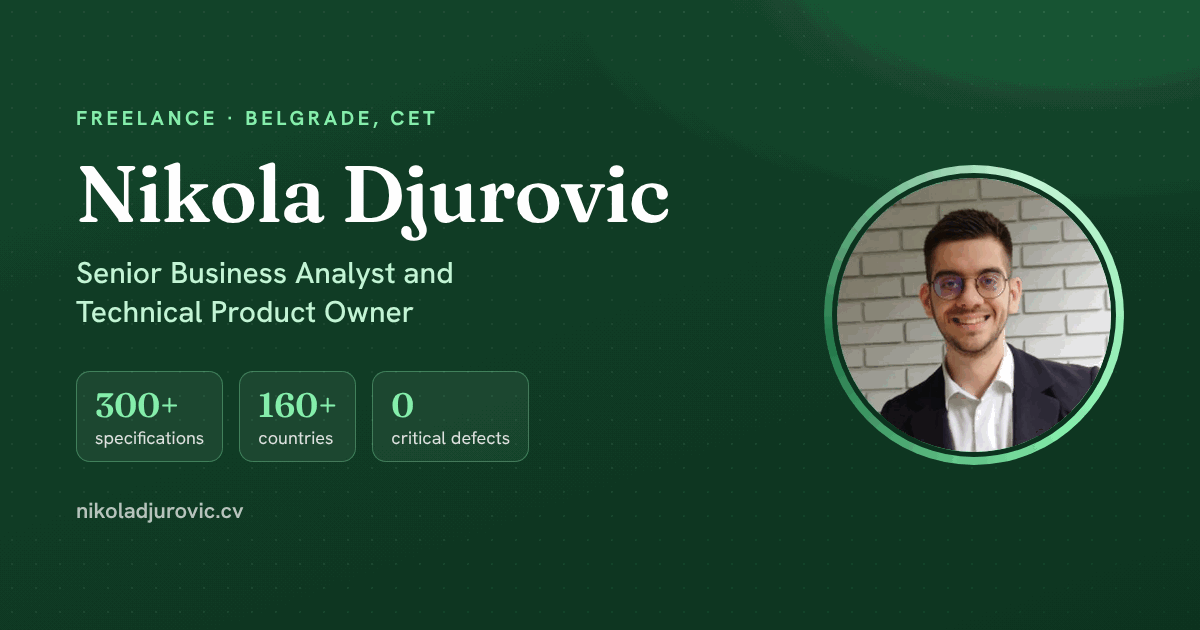
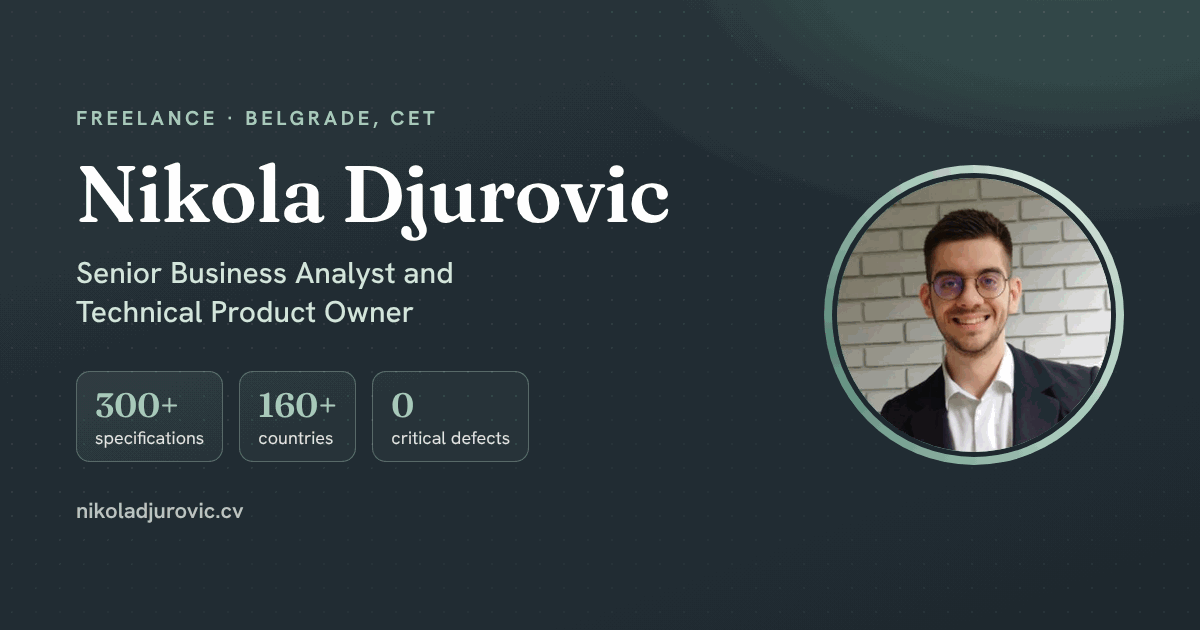
Switch to the Slate and Sage palette
Colours moved into CSS variables; icons, share images and theme colour regenerated.

Claude-Session: https://claude.ai/code/session_01DfTwYVFf6DwHNFPqiJmjwj

diff --git a/assets/css/site.css b/assets/css/site.css
@@ -6,18 +6,23 @@
 @font-face{font-family:"Hanken Grotesk";font-style:normal;font-weight:100 900;font-display:swap;src:url(../fonts/hanken-grotesk-latin-ext-wght-normal.woff2) format("woff2");unicode-range:U+0100-02BA,U+02BD-02C5,U+02C7-02CC,U+02CE-02D7,U+02DD-02FF,U+0304,U+0308,U+0329,U+1D00-1DBF,U+1E00-1E9F,U+1EF2-1EFF,U+2020,U+20A0-20AB,U+20AD-20C0,U+2113,U+2C60-2C7F,U+A720-A7FF}
 
 :root{
-  --forest:#13442a;
-  --forest-2:#0d321f;
-  --moss:#23794a;
-  --moss-ink:#1d6a40;
-  --mint:#86efac;
-  --mint-soft:#c4f5d6;
-  --paper:#f6f4ec;
-  --paper-2:#ece8db;
-  --card:#fffdf8;
-  --ink:#16211b;
-  --ink-soft:#454f48;
-  --line:#dcd7c7;
+  --forest:#27333a;
+  --accent-rgb:169 203 187;
+  --moss-rgb:91 138 122;
+  --deep-rgb:30 40 46;
+  --stats-bg:#222d33;
+  --tint:#e3eee8;
+  --forest-2:#1e282e;
+  --moss:#5b8a7a;
+  --moss-ink:#3b6a5b;
+  --mint:#a9cbbb;
+  --mint-soft:#d4e6dc;
+  --paper:#f4f4f1;
+  --paper-2:#e9e9e4;
+  --card:#fbfbf9;
+  --ink:#1e2429;
+  --ink-soft:#4e5760;
+  --line:#dfe0da;
   --focus:#f2b84b;
   --maxw:1140px;
   --gutter:clamp(16px,5vw,64px);
@@ -32,7 +37,7 @@
 *{margin:0;padding:0}
 html{-webkit-text-size-adjust:100%;text-size-adjust:100%;scroll-behavior:smooth;scroll-padding-top:84px}
 @media (pointer:fine){html{overscroll-behavior:none}}
-body{font-family:var(--sans);font-size:1.0625rem;background:var(--paper);color:var(--ink);line-height:1.6;-webkit-font-smoothing:antialiased;overflow-x:hidden;touch-action:manipulation;-webkit-tap-highlight-color:rgba(35,121,74,.18)}
+body{font-family:var(--sans);font-size:1.0625rem;background:var(--paper);color:var(--ink);line-height:1.6;-webkit-font-smoothing:antialiased;overflow-x:hidden;touch-action:manipulation;-webkit-tap-highlight-color:rgb(var(--moss-rgb) / .18)}
 img,svg{display:block;max-width:100%;height:auto}
 a{color:inherit}
 ul,ol{list-style:none}
@@ -48,9 +53,9 @@ p{text-wrap:pretty}
 .skip-link:focus{top:12px}
 
 /* ---------- header ---------- */
-.site-header{position:fixed;inset:0 0 auto 0;z-index:100;padding:14px var(--gutter);padding-top:max(14px,env(safe-area-inset-top));background:rgba(13,50,31,0);transition:background-color .3s ease,box-shadow .3s ease}
-.site-header.is-solid,.site-header.is-open{background:rgba(13,50,31,.97);box-shadow:0 1px 0 rgba(134,239,172,.18)}
-@supports (backdrop-filter:blur(8px)){.site-header.is-solid{background:rgba(13,50,31,.9);backdrop-filter:blur(10px)}}
+.site-header{position:fixed;inset:0 0 auto 0;z-index:100;padding:14px var(--gutter);padding-top:max(14px,env(safe-area-inset-top));background:rgb(var(--deep-rgb) / 0);transition:background-color .3s ease,box-shadow .3s ease}
+.site-header.is-solid,.site-header.is-open{background:rgb(var(--deep-rgb) / .97);box-shadow:0 1px 0 rgb(var(--accent-rgb) / .18)}
+@supports (backdrop-filter:blur(8px)){.site-header.is-solid{background:rgb(var(--deep-rgb) / .9);backdrop-filter:blur(10px)}}
 .header-inner{max-width:var(--maxw);margin:0 auto;display:flex;align-items:center;justify-content:space-between;gap:20px}
 .brand{font-family:var(--serif);font-weight:600;font-size:1.08rem;color:#fff;text-decoration:none;letter-spacing:.2px;white-space:nowrap}
 .brand b{color:var(--mint);font-weight:600}
@@ -64,7 +69,7 @@ p{text-wrap:pretty}
 .nav-toggle svg{width:22px;height:22px}
 @media (max-width:900px){
   .nav-toggle{display:inline-flex}
-  .site-nav{position:absolute;top:100%;left:0;right:0;background:rgba(13,50,31,.98);padding:8px var(--gutter) 22px;display:none;border-bottom:1px solid rgba(134,239,172,.2)}
+  .site-nav{position:absolute;top:100%;left:0;right:0;background:rgb(var(--deep-rgb) / .98);padding:8px var(--gutter) 22px;display:none;border-bottom:1px solid rgb(var(--accent-rgb) / .2)}
   .site-header.is-open .site-nav{display:block}
   .nav-list{flex-direction:column;align-items:stretch;gap:0}
   .nav-list a{display:block;padding:13px 0;font-size:1rem;border-bottom:1px solid rgba(255,255,255,.08)}
@@ -91,18 +96,18 @@ p{text-wrap:pretty}
 .file-meta{font-weight:500;opacity:.75;font-size:.82em}
 
 /* ---------- hero ---------- */
-.hero{position:relative;color:#fff;padding:140px var(--gutter) 48px;background:radial-gradient(1100px 560px at 85% -10%,rgba(35,121,74,.6),transparent 60%),radial-gradient(760px 480px at 0% 110%,rgba(134,239,172,.14),transparent 55%),linear-gradient(160deg,var(--forest) 0%,var(--forest-2) 100%)}
+.hero{position:relative;color:#fff;padding:140px var(--gutter) 48px;background:radial-gradient(1100px 560px at 85% -10%,rgb(var(--moss-rgb) / .6),transparent 60%),radial-gradient(760px 480px at 0% 110%,rgb(var(--accent-rgb) / .14),transparent 55%),linear-gradient(160deg,var(--forest) 0%,var(--forest-2) 100%)}
 .hero::before{content:"";position:absolute;inset:0;background-image:radial-gradient(rgba(255,255,255,.05) 1px,transparent 1px);background-size:22px 22px;pointer-events:none}
 .hero-grid{position:relative;max-width:var(--maxw);margin:0 auto;display:grid;grid-template-columns:minmax(0,1.55fr) minmax(0,.85fr);gap:48px;align-items:center;padding-bottom:64px}
 .eyebrow{display:flex;flex-wrap:wrap;align-items:center;gap:8px 10px;font-size:.76rem;font-weight:700;letter-spacing:.16em;text-transform:uppercase;color:var(--mint);margin-bottom:22px}
-.eyebrow span:not(:last-child)::after{content:"·";margin-left:10px;color:rgba(134,239,172,.6)}
+.eyebrow span:not(:last-child)::after{content:"·";margin-left:10px;color:rgb(var(--accent-rgb) / .6)}
 .hero h1{font-family:var(--serif);font-weight:600;line-height:1.02;letter-spacing:-.02em;font-size:clamp(2.6rem,6.4vw,4.7rem);margin-bottom:22px}
 .hero h1 .h1-role{display:block;font-family:var(--sans);font-weight:500;font-size:clamp(1rem,1.9vw,1.24rem);letter-spacing:.01em;line-height:1.4;color:var(--mint-soft);margin-top:14px}
 .lede{font-size:clamp(1.02rem,1.5vw,1.14rem);color:rgba(255,255,255,.88);max-width:56ch;margin-bottom:26px}
 .lede strong{color:#fff;font-weight:600}
-.availability{display:inline-flex;align-items:center;gap:10px;font-size:.9rem;font-weight:600;color:#fff;background:rgba(255,255,255,.07);border:1px solid rgba(134,239,172,.3);padding:8px 14px;border-radius:999px;margin-bottom:28px}
-.pulse{width:9px;height:9px;border-radius:50%;background:var(--mint);box-shadow:0 0 0 0 rgba(134,239,172,.6);animation:pulse 2.4s ease-out 3}
-@keyframes pulse{0%{box-shadow:0 0 0 0 rgba(134,239,172,.55)}80%,100%{box-shadow:0 0 0 10px rgba(134,239,172,0)}}
+.availability{display:inline-flex;align-items:center;gap:10px;font-size:.9rem;font-weight:600;color:#fff;background:rgba(255,255,255,.07);border:1px solid rgb(var(--accent-rgb) / .3);padding:8px 14px;border-radius:999px;margin-bottom:28px}
+.pulse{width:9px;height:9px;border-radius:50%;background:var(--mint);box-shadow:0 0 0 0 rgb(var(--accent-rgb) / .6);animation:pulse 2.4s ease-out 3}
+@keyframes pulse{0%{box-shadow:0 0 0 0 rgb(var(--accent-rgb) / .55)}80%,100%{box-shadow:0 0 0 10px rgb(var(--accent-rgb) / 0)}}
 .hero-photo{justify-self:center;position:relative}
 .photo-ring{width:clamp(210px,25vw,300px);aspect-ratio:1;border-radius:50%;padding:7px;background:conic-gradient(from 140deg,var(--mint),var(--moss),var(--mint-soft),var(--mint));box-shadow:0 30px 60px -20px rgba(0,0,0,.6)}
 .photo-ring img{width:100%;height:100%;border-radius:50%;object-fit:cover;border:4px solid var(--forest-2)}
@@ -117,8 +122,8 @@ p{text-wrap:pretty}
 }
 @media (max-width:420px){.photo-badge{display:none}}
 
-.stats{position:relative;max-width:var(--maxw);margin:0 auto;display:grid;grid-template-columns:repeat(4,minmax(0,1fr));background:#0f3a25;border:1px solid rgba(134,239,172,.3);border-radius:18px;overflow:hidden}
-.stat{padding:24px 22px;border-right:1px solid rgba(134,239,172,.16)}
+.stats{position:relative;max-width:var(--maxw);margin:0 auto;display:grid;grid-template-columns:repeat(4,minmax(0,1fr));background:var(--stats-bg);border:1px solid rgb(var(--accent-rgb) / .3);border-radius:18px;overflow:hidden}
+.stat{padding:24px 22px;border-right:1px solid rgb(var(--accent-rgb) / .16)}
 .stat:last-child{border-right:none}
 .stat dt{font-size:.74rem;letter-spacing:.1em;text-transform:uppercase;color:rgba(255,255,255,.76);margin-top:4px;order:2}
 .stat dd{font-family:var(--serif);font-size:clamp(1.8rem,3.4vw,2.6rem);font-weight:600;color:var(--mint);line-height:1.1;font-variant-numeric:tabular-nums;order:1}
@@ -126,7 +131,7 @@ p{text-wrap:pretty}
 @media (max-width:760px){
   .stats{grid-template-columns:repeat(2,minmax(0,1fr))}
   .stat:nth-child(2){border-right:none}
-  .stat:nth-child(-n+2){border-bottom:1px solid rgba(134,239,172,.16)}
+  .stat:nth-child(-n+2){border-bottom:1px solid rgb(var(--accent-rgb) / .16)}
 }
 
 /* ---------- sections ---------- */
@@ -179,7 +184,7 @@ h2.h2{font-family:var(--serif);font-weight:600;font-size:clamp(1.9rem,4vw,2.8rem
 
 /* work sample band */
 .band{margin-top:clamp(76px,10vw,128px);background:linear-gradient(150deg,var(--forest),var(--forest-2));color:#fff;position:relative;overflow:hidden}
-.band::before{content:"";position:absolute;inset:0;background-image:linear-gradient(rgba(134,239,172,.06) 1px,transparent 1px),linear-gradient(90deg,rgba(134,239,172,.06) 1px,transparent 1px);background-size:32px 32px;pointer-events:none}
+.band::before{content:"";position:absolute;inset:0;background-image:linear-gradient(rgb(var(--accent-rgb) / .06) 1px,transparent 1px),linear-gradient(90deg,rgb(var(--accent-rgb) / .06) 1px,transparent 1px);background-size:32px 32px;pointer-events:none}
 .band-inner{position:relative;max-width:calc(var(--maxw) + 2*var(--gutter));margin:0 auto;padding:clamp(64px,8vw,104px) var(--gutter)}
 .band .kicker{color:var(--mint)}
 .band .kicker::before{background:var(--mint)}
@@ -187,12 +192,12 @@ h2.h2{font-family:var(--serif);font-weight:600;font-size:clamp(1.9rem,4vw,2.8rem
 .band .intro{color:rgba(255,255,255,.84)}
 .sample-grid{display:grid;grid-template-columns:minmax(0,1fr) minmax(0,1.1fr);gap:48px;align-items:center}
 .sample-facts{margin:22px 0 28px;display:grid;grid-template-columns:repeat(2,minmax(0,1fr));gap:10px}
-.sample-facts li{background:rgba(255,255,255,.06);border:1px solid rgba(134,239,172,.2);border-radius:12px;padding:12px 14px;font-size:.92rem;color:rgba(255,255,255,.86)}
+.sample-facts li{background:rgba(255,255,255,.06);border:1px solid rgb(var(--accent-rgb) / .2);border-radius:12px;padding:12px 14px;font-size:.92rem;color:rgba(255,255,255,.86)}
 .sample-facts b{display:block;font-family:var(--serif);font-size:1.4rem;color:var(--mint);font-weight:600;line-height:1.1}
 .doc-frame{background:#fff;border-radius:12px;padding:10px;box-shadow:0 30px 70px -30px rgba(0,0,0,.7);transform:rotate(.8deg)}
 .doc-frame img{border-radius:6px;width:100%}
 .figure-strip{margin-top:44px;display:grid;grid-template-columns:repeat(3,minmax(0,1fr));gap:18px}
-.fig-link{display:block;text-decoration:none;background:rgba(255,255,255,.05);border:1px solid rgba(134,239,172,.2);border-radius:14px;padding:10px;transition:border-color .2s ease,background-color .2s ease}
+.fig-link{display:block;text-decoration:none;background:rgba(255,255,255,.05);border:1px solid rgb(var(--accent-rgb) / .2);border-radius:14px;padding:10px;transition:border-color .2s ease,background-color .2s ease}
 .fig-link:hover{border-color:var(--mint);background:rgba(255,255,255,.09)}
 .fig-link img{border-radius:8px;background:#fff;aspect-ratio:16/10;object-fit:cover;object-position:top;width:100%}
 .fig-link span{display:block;font-size:.88rem;padding:10px 4px 2px;color:rgba(255,255,255,.88)}
@@ -258,7 +263,7 @@ h2.h2{font-family:var(--serif);font-weight:600;font-size:clamp(1.9rem,4vw,2.8rem
 .contact-alt{margin-top:18px;font-size:.92rem;color:rgba(255,255,255,.75)}
 .contact-alt a{color:var(--mint)}
 .link-btn{background:none;border:none;color:var(--mint);font:inherit;text-decoration:underline;cursor:pointer;padding:0}
-.terms{background:rgba(255,255,255,.06);border:1px solid rgba(134,239,172,.24);border-radius:16px;padding:20px 24px}
+.terms{background:rgba(255,255,255,.06);border:1px solid rgb(var(--accent-rgb) / .24);border-radius:16px;padding:20px 24px}
 .terms div{display:flex;justify-content:space-between;gap:16px;padding:10px 0;border-bottom:1px dashed rgba(255,255,255,.16);font-size:.92rem}
 .terms div:last-child{border-bottom:none}
 .terms dt{color:rgba(255,255,255,.68)}
@@ -283,11 +288,11 @@ h2.h2{font-family:var(--serif);font-weight:600;font-size:clamp(1.9rem,4vw,2.8rem
 }
 
 /* ---------- case study page ---------- */
-.page-hero{color:#fff;padding:128px var(--gutter) 64px;background:radial-gradient(900px 460px at 90% -20%,rgba(35,121,74,.55),transparent 60%),linear-gradient(160deg,var(--forest) 0%,var(--forest-2) 100%);position:relative;overflow:hidden}
-.page-hero::before{content:"";position:absolute;inset:0;background-image:linear-gradient(rgba(134,239,172,.06) 1px,transparent 1px),linear-gradient(90deg,rgba(134,239,172,.06) 1px,transparent 1px);background-size:32px 32px;pointer-events:none}
+.page-hero{color:#fff;padding:128px var(--gutter) 64px;background:radial-gradient(900px 460px at 90% -20%,rgb(var(--moss-rgb) / .55),transparent 60%),linear-gradient(160deg,var(--forest) 0%,var(--forest-2) 100%);position:relative;overflow:hidden}
+.page-hero::before{content:"";position:absolute;inset:0;background-image:linear-gradient(rgb(var(--accent-rgb) / .06) 1px,transparent 1px),linear-gradient(90deg,rgb(var(--accent-rgb) / .06) 1px,transparent 1px);background-size:32px 32px;pointer-events:none}
 .page-hero-inner{position:relative;max-width:var(--maxw);margin:0 auto}
 .crumbs ol{display:flex;flex-wrap:wrap;gap:6px;font-size:.86rem;color:rgba(255,255,255,.72);margin-bottom:22px}
-.crumbs li+li::before{content:"/";margin-right:6px;color:rgba(134,239,172,.6)}
+.crumbs li+li::before{content:"/";margin-right:6px;color:rgb(var(--accent-rgb) / .6)}
 .crumbs a{color:var(--mint-soft)}
 .page-hero h1{font-family:var(--serif);font-weight:600;font-size:clamp(2.1rem,5vw,3.5rem);line-height:1.08;letter-spacing:-.01em;max-width:22ch;margin-bottom:18px}
 .page-hero .lede{max-width:64ch}
@@ -313,7 +318,7 @@ th,td{text-align:left;padding:11px 16px;border-bottom:1px solid var(--line);vert
 th{font-size:.78rem;letter-spacing:.08em;text-transform:uppercase;color:var(--ink-soft);background:var(--paper)}
 tbody tr:last-child td{border-bottom:none}
 td.id{font-family:var(--mono);font-size:.82rem;color:var(--moss-ink);white-space:nowrap;font-weight:600}
-.pill{display:inline-block;font-size:.76rem;font-weight:700;padding:2px 9px;border-radius:999px;background:#e3f4e9;color:var(--moss-ink)}
+.pill{display:inline-block;font-size:.76rem;font-weight:700;padding:2px 9px;border-radius:999px;background:var(--tint);color:var(--moss-ink)}
 .pill.should{background:#fbf0d9;color:#7a5410}
 .figure{margin:0 0 34px;background:var(--card);border:1px solid var(--line);border-radius:16px;padding:14px}
 .figure a{display:block;border-radius:10px;overflow:hidden}
@@ -326,7 +331,7 @@ td.id{font-family:var(--mono);font-size:.82rem;color:var(--moss-ink);white-space
 .ac b{color:var(--moss-ink)}
 
 /* ---------- v2: icons, metrics, process flow ---------- */
-.ico{width:46px;height:46px;border-radius:12px;background:#e3f4e9;color:var(--moss-ink);display:inline-flex;align-items:center;justify-content:center;margin-bottom:16px;flex:none}
+.ico{width:46px;height:46px;border-radius:12px;background:var(--tint);color:var(--moss-ink);display:inline-flex;align-items:center;justify-content:center;margin-bottom:16px;flex:none}
 .ico svg{width:24px;height:24px}
 .services .card h3,.engage .card h3{font-size:1.16rem}
 .engage .card{border-top:none}
@@ -335,7 +340,7 @@ td.id{font-family:var(--mono);font-size:.82rem;color:var(--moss-ink);white-space
 .work .meta{margin:auto 0 0;padding-top:14px;text-transform:none;letter-spacing:0;font-size:.82rem;color:var(--ink-soft);font-weight:600}
 .flow{margin:0;background:var(--card);border:1px solid var(--line);border-radius:20px;padding:30px 24px 18px}
 .flow-svg{width:100%;height:auto;overflow:visible}
-.fl-card{fill:#fffdf8;stroke:var(--line);stroke-width:1.5}
+.fl-card{fill:var(--card);stroke:var(--line);stroke-width:1.5}
 .fl-dot{fill:var(--forest)}
 .fl-ico{color:var(--mint)}
 .fl-num{font:600 12px var(--mono);fill:var(--moss-ink);letter-spacing:.08em}

diff --git a/index.html b/index.html
@@ -8,7 +8,7 @@
 <meta name="author" content="Nikola Djurovic">
 <meta name="robots" content="index, follow, max-image-preview:large">
 <link rel="canonical" href="https://nikoladjurovic.cv/">
-<meta name="theme-color" content="#13442a">
+<meta name="theme-color" content="#27333a">
 
 <meta property="og:type" content="profile">
 <meta property="og:site_name" content="Nikola Djurovic">
@@ -35,9 +35,9 @@
 
 <link rel="preload" href="/assets/fonts/fraunces-latin-wght-normal.woff2" as="font" type="font/woff2" crossorigin>
 <link rel="preload" href="/assets/fonts/hanken-grotesk-latin-wght-normal.woff2" as="font" type="font/woff2" crossorigin>
-<link rel="stylesheet" href="/assets/css/site.css?v=20261007b">
+<link rel="stylesheet" href="/assets/css/site.css?v=20261007c">
 <script>document.documentElement.classList.add('js')</script>
-<script src="/assets/js/site.js?v=20261007b" defer></script>
+<script src="/assets/js/site.js?v=20261007c" defer></script>
 
 <script type="application/ld+json">
 {
@@ -297,13 +297,13 @@
     </div>
     <figure class="flow reveal">
       <svg class="flow-svg" viewBox="0 0 1120 308" xmlns="http://www.w3.org/2000/svg" aria-hidden="true" focusable="false">
-<defs><marker id="arw" viewBox="0 0 10 10" refX="9" refY="5" markerWidth="7" markerHeight="7" orient="auto-start-reverse"><path d="M0 0 10 5 0 10Z" fill="#23794a"/></marker></defs>
-<path d="M208 149 H238" fill="none" stroke="#23794a" stroke-width="2" marker-end="url(#arw)"/>
-<path d="M432 149 H462" fill="none" stroke="#23794a" stroke-width="2" marker-end="url(#arw)"/>
-<path d="M656 149 H686" fill="none" stroke="#23794a" stroke-width="2" marker-end="url(#arw)"/>
-<path d="M880 149 H910" fill="none" stroke="#23794a" stroke-width="2" marker-end="url(#arw)"/>
-<path d="M784 254 V286 H560 V260" fill="none" stroke="#23794a" stroke-width="2" stroke-dasharray="6 5" marker-end="url(#arw)"/>
-<rect x="598" y="274" width="148" height="24" rx="12" fill="#f6f4ec"/>
+<defs><marker id="arw" viewBox="0 0 10 10" refX="9" refY="5" markerWidth="7" markerHeight="7" orient="auto-start-reverse"><path d="M0 0 10 5 0 10Z" fill="#5b8a7a"/></marker></defs>
+<path d="M208 149 H238" fill="none" stroke="#5b8a7a" stroke-width="2" marker-end="url(#arw)"/>
+<path d="M432 149 H462" fill="none" stroke="#5b8a7a" stroke-width="2" marker-end="url(#arw)"/>
+<path d="M656 149 H686" fill="none" stroke="#5b8a7a" stroke-width="2" marker-end="url(#arw)"/>
+<path d="M880 149 H910" fill="none" stroke="#5b8a7a" stroke-width="2" marker-end="url(#arw)"/>
+<path d="M784 254 V286 H560 V260" fill="none" stroke="#5b8a7a" stroke-width="2" stroke-dasharray="6 5" marker-end="url(#arw)"/>
+<rect x="598" y="274" width="148" height="24" rx="12" fill="#fbfbf9"/>
 <text x="672" y="291" text-anchor="middle" class="fl-note">change requests</text>
 <rect x="20" y="46" width="184" height="206" rx="16" class="fl-card"/>
 <circle cx="112" cy="46" r="28" class="fl-dot"/>

diff --git a/sitemap/index.html b/sitemap/index.html
@@ -6,14 +6,14 @@
 <title>Sitemap | Nikola Djurovic</title>
 <meta name="description" content="Every page and downloadable file on nikoladjurovic.cv, the site of freelance Senior Business Analyst Nikola Djurovic.">
 <link rel="canonical" href="https://nikoladjurovic.cv/sitemap/">
-<meta name="theme-color" content="#13442a">
+<meta name="theme-color" content="#27333a">
 <link rel="icon" href="/favicon.svg" type="image/svg+xml">
 <link rel="icon" href="/favicon-32.png" sizes="32x32" type="image/png">
 <link rel="apple-touch-icon" href="/apple-touch-icon.png">
 <link rel="preload" href="/assets/fonts/fraunces-latin-wght-normal.woff2" as="font" type="font/woff2" crossorigin>
 <link rel="preload" href="/assets/fonts/hanken-grotesk-latin-wght-normal.woff2" as="font" type="font/woff2" crossorigin>
-<link rel="stylesheet" href="/assets/css/site.css?v=20261007b">
-<script src="/assets/js/site.js?v=20261007b" defer></script>
+<link rel="stylesheet" href="/assets/css/site.css?v=20261007c">
+<script src="/assets/js/site.js?v=20261007c" defer></script>
 </head>
 <body>
 <a class="skip-link" href="#main">Skip to Content</a>

diff --git a/work/order-risk-hold/index.html b/work/order-risk-hold/index.html
@@ -8,7 +8,7 @@
 <meta name="author" content="Nikola Djurovic">
 <meta name="robots" content="index, follow, max-image-preview:large">
 <link rel="canonical" href="https://nikoladjurovic.cv/work/order-risk-hold/">
-<meta name="theme-color" content="#13442a">
+<meta name="theme-color" content="#27333a">
 
 <meta property="og:type" content="article">
 <meta property="og:site_name" content="Nikola Djurovic">
@@ -31,9 +31,9 @@
 
 <link rel="preload" href="/assets/fonts/fraunces-latin-wght-normal.woff2" as="font" type="font/woff2" crossorigin>
 <link rel="preload" href="/assets/fonts/hanken-grotesk-latin-wght-normal.woff2" as="font" type="font/woff2" crossorigin>
-<link rel="stylesheet" href="/assets/css/site.css?v=20261007b">
+<link rel="stylesheet" href="/assets/css/site.css?v=20261007c">
 <script>document.documentElement.classList.add('js')</script>
-<script src="/assets/js/site.js?v=20261007b" defer></script>
+<script src="/assets/js/site.js?v=20261007c" defer></script>
 
 <script type="application/ld+json">
 {

diff --git a/404.html b/404.html
@@ -5,9 +5,9 @@
 <meta name="viewport" content="width=device-width, initial-scale=1">
 <title>Page Not Found | Nikola Djurovic</title>
 <meta name="robots" content="noindex">
-<meta name="theme-color" content="#13442a">
+<meta name="theme-color" content="#27333a">
 <link rel="icon" href="/favicon.svg" type="image/svg+xml">
-<link rel="stylesheet" href="/assets/css/site.css?v=20261007b">
+<link rel="stylesheet" href="/assets/css/site.css?v=20261007c">
 </head>
 <body>
 <main id="main">
